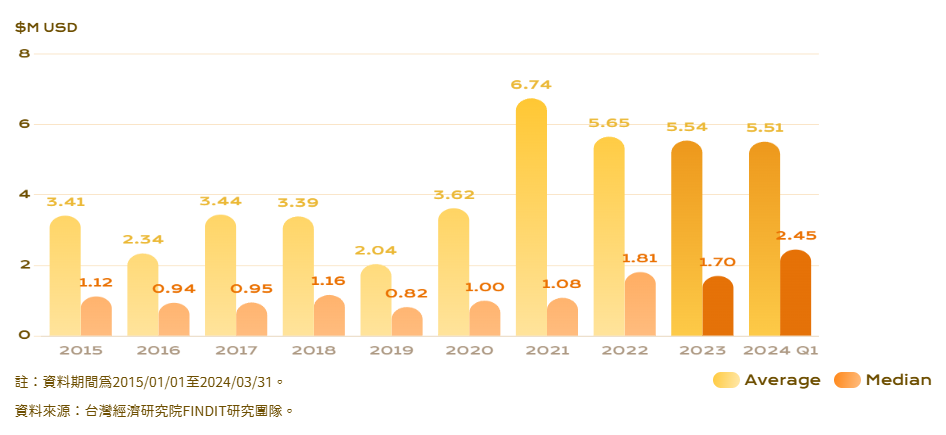
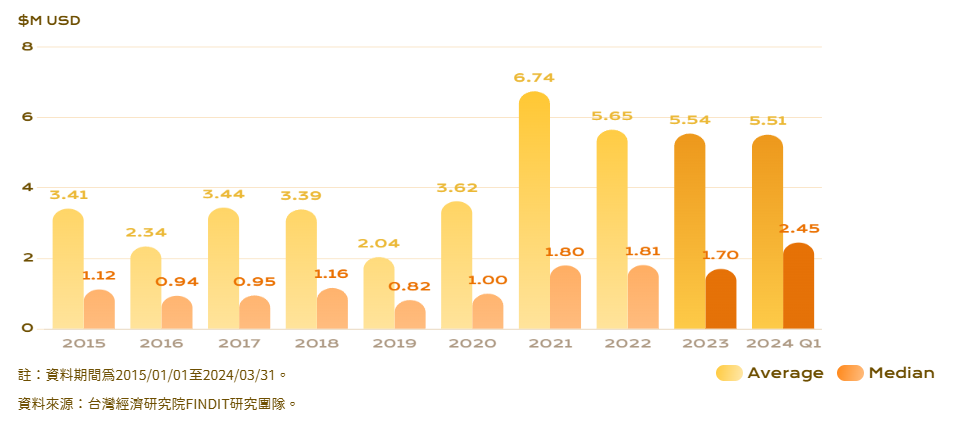
update | 20241029 change chart data, fix bug, update download image

diff --git a/src/js/chart/chart07_02.js b/src/js/chart/chart07_02.js
@@ -53,9 +53,8 @@ export default () =>
                 x: {
                     ticks: {
                         callback: function (value) {
-                            console.log("🚀 ~ value:", value)
                             if (Math.sign(value) > 0) {
-                                return formatNumber(value)
+                                return formatNumber(value * 6.25)
                             }
                             return Math.abs(value)
                         },

diff --git a/src/js/chart/chart02.js b/src/js/chart/chart02.js
@@ -48,7 +48,7 @@ export default () => {
         },
         {
           type: "bar",
-          data: [1.12, 0.94, 0.95, 1.16, 0.82, "1.00", "1.08", 1.81, "1.70", 2.45],
+          data: [1.12, 0.94, 0.95, 1.16, 0.82, "1.00", "1.80", 1.81, "1.70", 2.45],
           backgroundColor:  (context) => context.dataIndex >= 8 ? orangeGradientHighlight3(ctx) : orangeGradient(ctx),
           datalabels: {
             align: "top",
